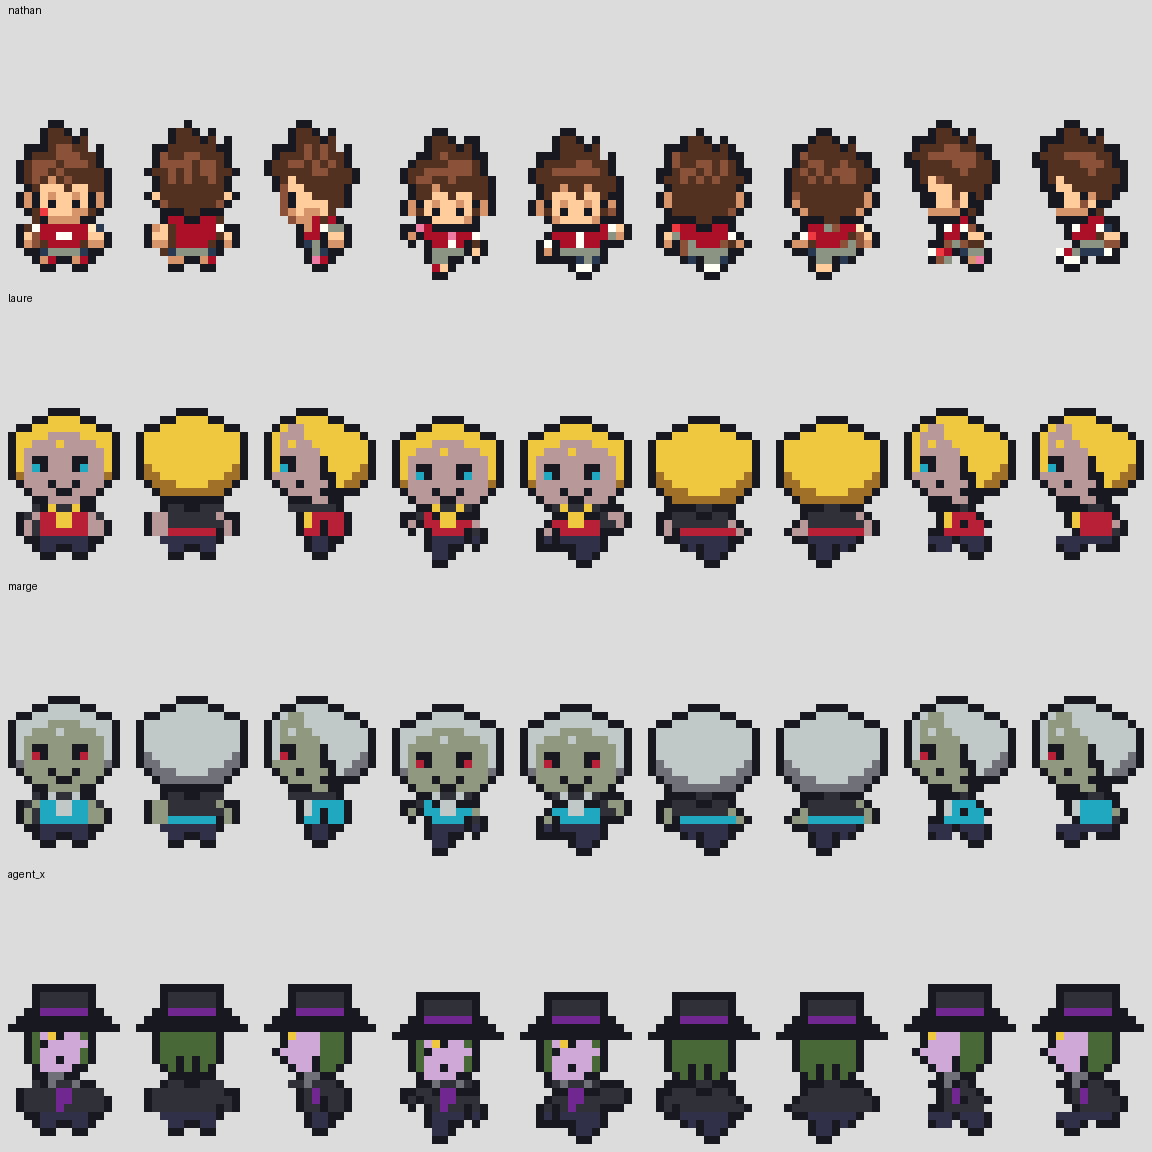
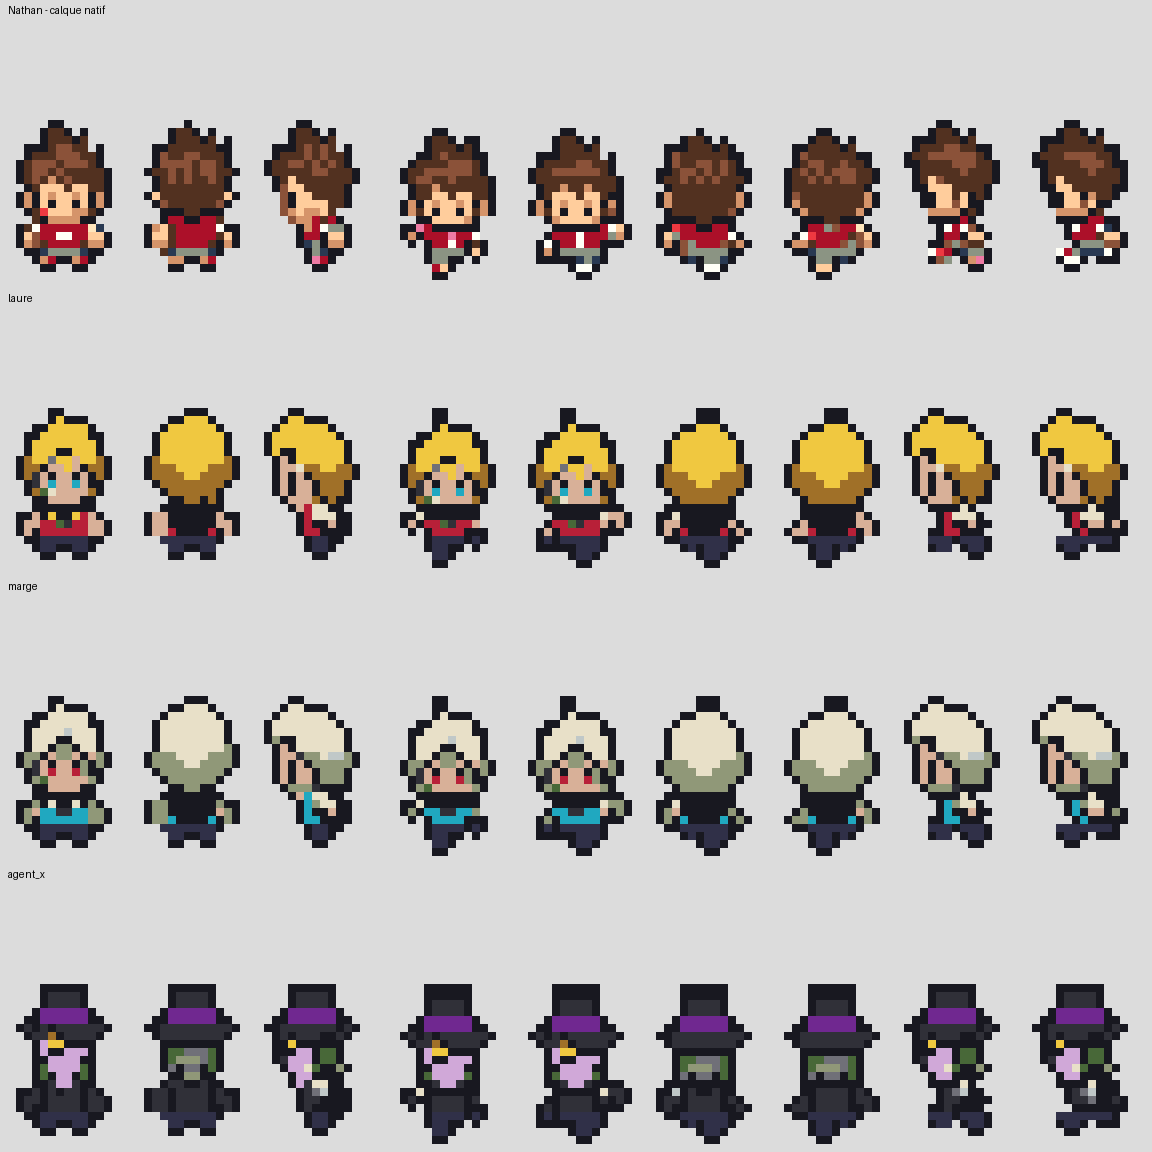
Restore preferred character sprites and archive rejected native grid experiment

diff --git a/tools/yokai/suivre_production_personnages.py b/tools/yokai/suivre_production_personnages.py
@@ -100,8 +100,8 @@ def main():
                 remaining = 'Deux essais archives sous propositions/perpetua-mckraken ; dessin natif et portraits a produire, integration et tests non effectues'
             if actor in ('laure', 'marge', 'agent_x'):
                 reference = 'Reference fournie par le createur dans la conversation'
-                state = 'GRILLE_NATIVE_DIRECTE_DECLAREE_ET_TESTEE_MGBA'
-                remaining = 'Neuf matrices de 16x32 cases, sans conversion de dessin ; validation artistique a faire, portraits et placement scenaristique restent a produire'
+                state = 'VERSION_PRECEDENTE_RESTAUREE_ESSAI_GRILLE_REFUSE'
+                remaining = 'Essai natif refuse par le createur ; anciens PNG et palettes restaures, ne pas reexporter les grilles refusees ; portraits et evenements restent a produire'
             progress.append(dict(personnage=row['nom'], id=actor, ressources_necessaires=row['ressources_attendues'],
                                  ressources_existantes=row['fichiers_presents'], ressources_manquantes=row['fichiers_a_retrouver_ou_creer'],
                                  reference_visuelle=reference, etat=state, nouvelles_images_de_pas=6 if produced.exists() else 0,

diff --git a/tools/yokai/exporter_grilles_personnages.py b/tools/yokai/exporter_grilles_personnages.py
@@ -14,6 +14,8 @@ ACTORS=('laure','marge','agent_x')
 def export(actor):
  folder=ROOT/'graphics/yokai_characters'/actor
  path=folder/'source/overworld-grille.json';spec=json.loads(path.read_text())
+ if spec.get('status')=='REJECTED_BY_CREATOR_NOT_ACTIVE':
+  raise RuntimeError('Grille refusee par le createur : brouillon conserve, ne pas ecraser les sprites actifs.')
  palette_path=ROOT/spec['palette'];colors=json.loads(palette_path.read_text())['colors']
  assert len(colors)==16 and all(len(c)==3 and all(0<=v<=255 for v in c) for c in colors)
  assert (spec['frame_width'],spec['frame_height'])==(16,32) and len(spec['frames'])==9

diff --git a/QA_RECETTE_FINALE/PERSONNAGES_PRODUCTION/POINT_DE_REPRISE.md b/QA_RECETTE_FINALE/PERSONNAGES_PRODUCTION/POINT_DE_REPRISE.md
@@ -35,3 +35,7 @@ Laure, Marge et Agent X disposent de PNG natifs neuf poses, déclarations moteur
 ## Changement demandé : dessin natif direct
 
 Les versions par conversion imagegen de Laure/Marge/Agent X sont remplacées par des matrices explicitement dessinées de 16x32 cases : chaque acteur possède source/overworld-grille.json. Export direct via exporter_grilles_personnages.py ; ancien convertisseur transformé en point d’entrée de compatibilité, sans lecture d’illustration. Tests des deux profils sous GRILLES_NATIVES_DIRECTES et GRILLES_NATIVES_DIRECTES_AUDIO. Aucun changement de Nathan/Katie/Ariane ni du gameplay. Ne plus reprendre les images générées pour recréer ces trois PNG : éditer leurs cases natives.
+
+## Correction : essai natif refusé
+
+Le créateur juge les derniers dessins natifs moins réussis. PNG, palettes et métadonnées actifs de Laure/Marge/Agent X restaurés depuis 78b1ccea4. Les matrices restent archivées avec status REJECTED_BY_CREATOR_NOT_ACTIVE ; l’exporteur bloque leur réactivation. Ne pas présenter ces dessins ni leurs tests comme une approbation artistique. L’ancien dessin rétabli est issu de conversion, pas d’une création native manuelle.

diff --git a/QA_RECETTE_FINALE/PERSONNAGES_PRODUCTION/GRILLES_NATIVES_DIRECTES/README.md b/QA_RECETTE_FINALE/PERSONNAGES_PRODUCTION/GRILLES_NATIVES_DIRECTES/README.md
@@ -1,3 +1,5 @@
+> **ESSAI REFUSÉ PAR LE CRÉATEUR — HORS DES RESSOURCES ACTIVES.** Les PNG et palettes de 78b1ccea4 sont rétablis. Les tests ci-dessous décrivent uniquement cet essai historique, dont le rendu artistique a été refusé. L’exporteur bloque la réactivation de ces grilles. La version rétablie provenait de la méthode antérieure de conversion ; elle ne doit pas être présentée comme un dessin natif manuel.
+
 # Dessin direct dans une grille native
 
 ![Capture réelle mGBA](comparaison-annotee-x4.png)
